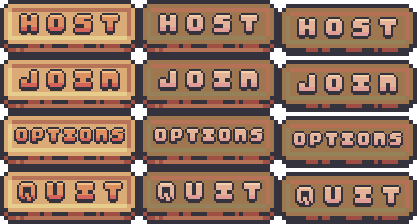
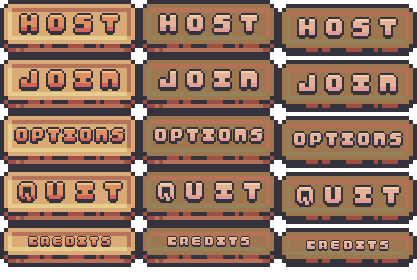
he añadido los créditos

diff --git a/src/gamestates/Options.java b/src/gamestates/Options.java
@@ -9,33 +9,39 @@ import java.awt.image.BufferedImage;
 import audioClasses.AudioPlayer;
 import mainGame.Game;
 import ui.AudioOptions;
+import ui.MenuButton;
 import ui.URMButton;
 import utilz.LoadSave;
 
 public class Options extends State implements Statemethods {
 
 	private AudioOptions audioOptions;
-	private BufferedImage backgroundImg, optionsBackgroundImg;
+	private BufferedImage backgroundImg, optionsBackgroundImg, credits;
 	private int bgX, bgY, bgW, bgH;
-	private URMButton menuB;
+	private URMButton menuB, backButton;
+	private MenuButton creditsB;
+	private boolean active = false;
 
 	public Options(Game game) {
 		super(game);
 		loadImgs();
-		loadButton();
+		loadButtons();
 		audioOptions = game.getAudioOptions();
 	}
 
-	private void loadButton() {
+	private void loadButtons() {
 		int menuX = 640 - 28;
 		int menuY = 470;
 
 		menuB = new URMButton(menuX, menuY, 2);
+		backButton = new URMButton(500, 490, 1);
+		creditsB = new MenuButton((Game.GAME_WIDTH / 2) - 1, 560, 4, Gamestate.OPTIONS);
 	}
 
 	private void loadImgs() {
 		backgroundImg = LoadSave.GetSpriteAtlas(LoadSave.MENU_BACKGROUND);
 		optionsBackgroundImg = LoadSave.GetSpriteAtlas(LoadSave.OPTIONS_MENU);
+		credits = LoadSave.GetSpriteAtlas(LoadSave.CREDITS);
 
 		bgW = optionsBackgroundImg.getWidth();
 		bgH = optionsBackgroundImg.getHeight();
@@ -49,10 +55,18 @@ public class Options extends State implements Statemethods {
 		g.drawImage(backgroundImg, 0, 0, Game.GAME_WIDTH, Game.GAME_HEIGHT, null);
 		g.drawImage(optionsBackgroundImg, bgX, bgY, bgW, bgH, null);
 		g.drawString("v1.0.5 release", 10, Game.GAME_HEIGHT);
-		g.setColor(Color.black);
 
 		menuB.draw(g, 1);
 		audioOptions.draw(g);
+		creditsB.draw(g);
+		
+		if (active) {
+			g.setColor(new Color(0, 0, 0, 150));
+			g.fillRect(0, 0, Game.GAME_WIDTH, Game.GAME_HEIGHT);
+			g.drawImage(credits, Game.GAME_WIDTH / 2 - credits.getWidth() / 2, Game.GAME_HEIGHT / 2 - credits.getHeight() / 2, credits.getWidth(), credits.getHeight(), null);
+			backButton.draw(g, 1);
+		}
+		g.setColor(Color.black);
 	}
 
 	public void mouseDragged(MouseEvent e) {
@@ -61,40 +75,75 @@ public class Options extends State implements Statemethods {
 
 	@Override
 	public void mousePressed(MouseEvent e) {
-		if (menuB.getHitbox().contains(e.getX(), e.getY())) {
-			menuB.setMousePressed(true);
-			game.getAudioPlayer().playEffect(AudioPlayer.FLICK);
+		if (!active) {
+			if (menuB.getHitbox().contains(e.getX(), e.getY())) {
+				menuB.setMousePressed(true);
+				game.getAudioPlayer().playEffect(AudioPlayer.FLICK);
+			} else if (creditsB.getHitbox().contains(e.getX(), e.getY())) {
+				creditsB.setMousePressed(true);
+				game.getAudioPlayer().playEffect(AudioPlayer.FLICK);
+			} else {
+				audioOptions.mousePressed(e);
+			}
 		} else {
-			audioOptions.mousePressed(e);
+			if (backButton.getHitbox().contains(e.getX(), e.getY())) {
+				backButton.setMousePressed(true);
+				game.getAudioPlayer().playEffect(AudioPlayer.FLICK);
+			}
 		}
 	}
 
 	@Override
 	public void mouseReleased(MouseEvent e) {
-		if (menuB.getHitbox().contains(e.getX(), e.getY())) {
-			if (menuB.isMousePressed())
-				game.getAudioPlayer().playEffect(AudioPlayer.FLACK);
-				Gamestate.state = Gamestate.MENU;
+		if (!active) {
+			if (menuB.getHitbox().contains(e.getX(), e.getY())) {
+				if (menuB.isMousePressed())
+					game.getAudioPlayer().playEffect(AudioPlayer.FLACK);
+					Gamestate.state = Gamestate.MENU;
+			} else if (creditsB.getHitbox().contains(e.getX(), e.getY())) {
+				if (creditsB.isMousePressed())
+					game.getAudioPlayer().playEffect(AudioPlayer.FLACK);
+					active = true;
+			} else {
+				audioOptions.mouseReleased(e); 
+			}
 		} else {
-			audioOptions.mouseReleased(e); 
+			if (backButton.getHitbox().contains(e.getX(), e.getY())) {
+				if (backButton.isMousePressed())
+					game.getAudioPlayer().playEffect(AudioPlayer.FLACK);
+					active = false;
+			}
 		}
 		menuB.resetBools();
+		creditsB.resetBools();
+		backButton.resetBools();
 	}
 
 	@Override
 	public void mouseMoved(MouseEvent e) {
 		menuB.setMouseOver(false);
+		creditsB.setMouseOver(false);
+		backButton.setMouseOver(false);
 
-		if (menuB.getHitbox().contains(e.getX(), e.getY()))
-			menuB.setMouseOver(true);
-		else
-			audioOptions.mouseMoved(e);
+		if (!active) {
+			if (menuB.getHitbox().contains(e.getX(), e.getY()))
+				menuB.setMouseOver(true);
+			else if (creditsB.getHitbox().contains(e.getX(), e.getY()))
+				creditsB.setMouseOver(true);
+			else
+				audioOptions.mouseMoved(e);
+		} else {
+			if (backButton.getHitbox().contains(e.getX(), e.getY()))
+				backButton.setMouseOver(true);
+		}
 	}
 
 	@Override
 	public void keyPressed(KeyEvent e) {
-		if (e.getKeyCode() == KeyEvent.VK_ESCAPE)
-			Gamestate.state = Gamestate.MENU;
+		if (e.getKeyCode() == KeyEvent.VK_ESCAPE) {
+			if (active) active = false;
+			else Gamestate.state = Gamestate.MENU; 
+		}
 	}
 
 }

diff --git a/src/utilz/LoadSave.java b/src/utilz/LoadSave.java
@@ -33,6 +33,7 @@ public class LoadSave {
 	public static final String OPTIONS_MENU = "options_background.png";
 	public static final String CIRCLETIMER = "circleTimer.png";
 	public static final String WAITING = "waiting.png";
+	public static final String CREDITS = "credits_list.png";
 
 	public static BufferedImage GetSpriteAtlas(String fileName) {
 		BufferedImage img = null;

diff --git a/src/ui/MenuButton.java b/src/ui/MenuButton.java
@@ -26,7 +26,8 @@ public class MenuButton {
 	}
 
 	private void initBounds() {
-		hitbox = new Rectangle(xPos - xOffsetCenter, yPos, B_WIDTH, B_HEIGHT);
+		if (rowIndex == 4) hitbox = new Rectangle(xPos - xOffsetCenter, yPos, B_WIDTH, 43);
+		else hitbox = new Rectangle(xPos - xOffsetCenter, yPos, B_WIDTH, B_HEIGHT);
 	}
 
 	private void loadImgs() {
